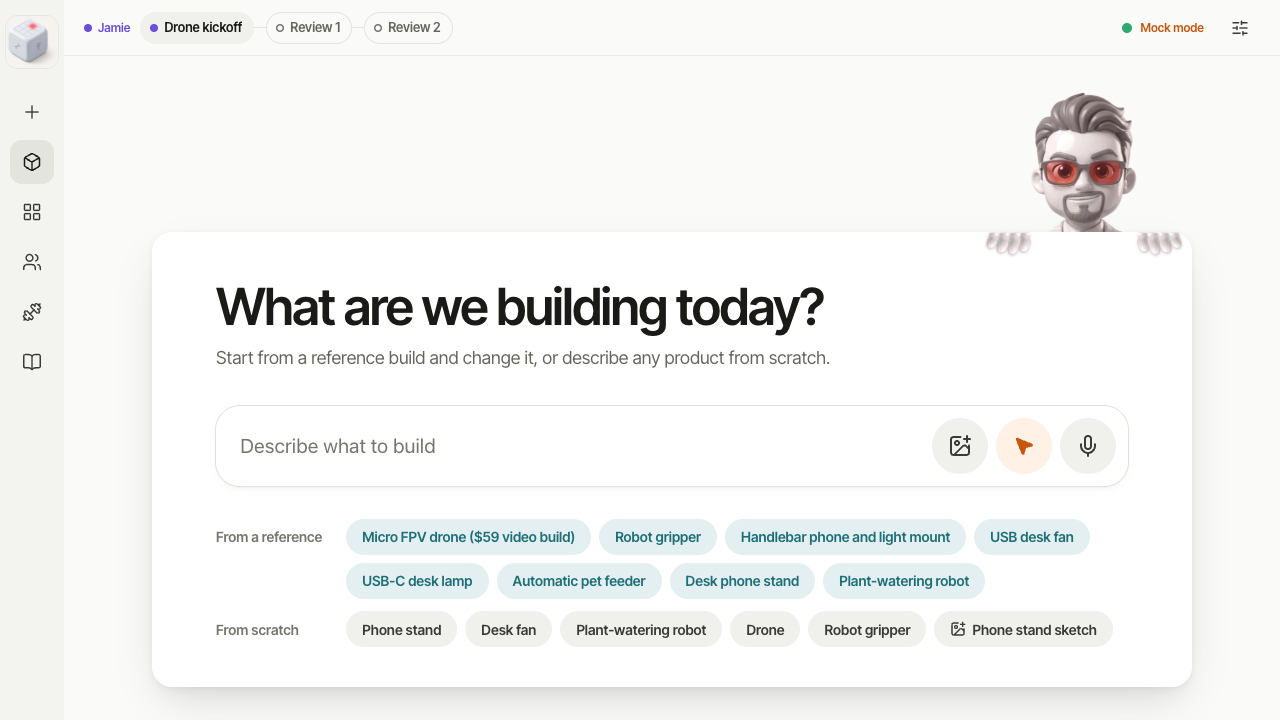
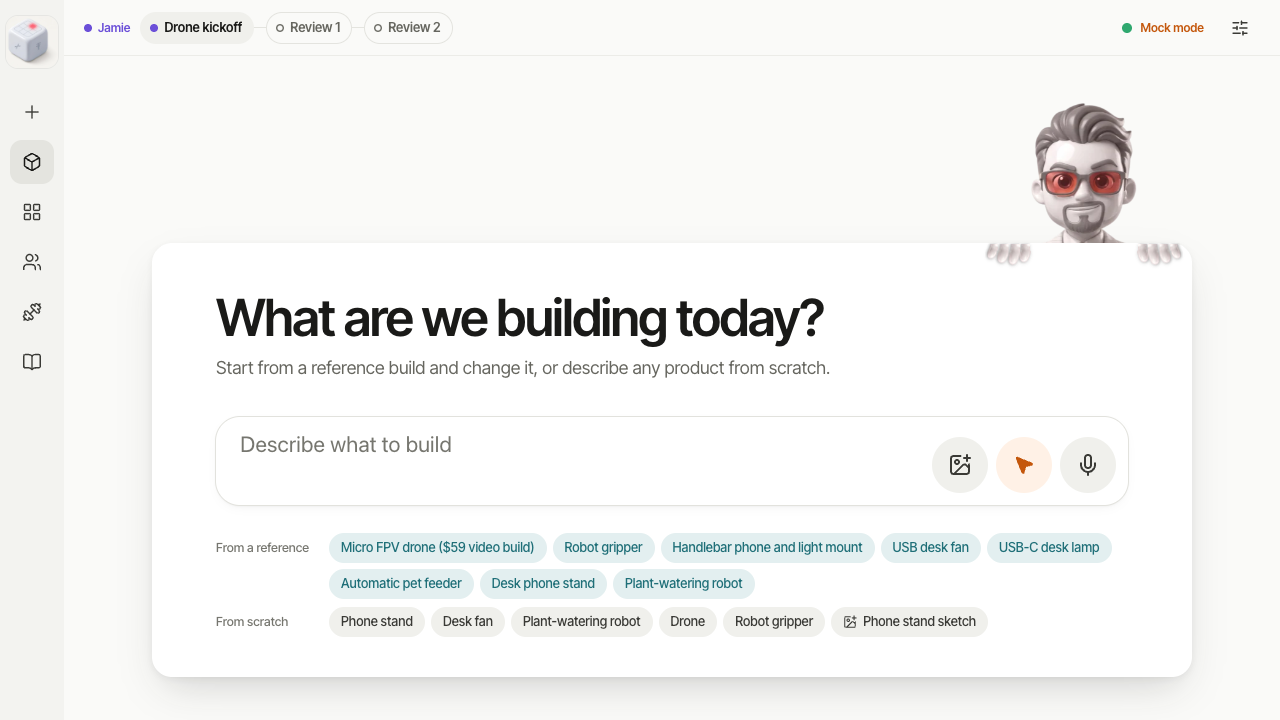
Start screen: a larger prompt field and quieter starting points

diff --git a/web/src/views/StartScreen.tsx b/web/src/views/StartScreen.tsx
@@ -11,7 +11,8 @@ import { useWindowWidth } from "../components/ui/ResizeHandle";
 import { EXAMPLES } from "../components/chat/examples";
 import { HEAD_ABOVE, MechanicPeek } from "../components/start/MechanicPeek";
 
-const chip = "h-9 rounded-full px-4 text-[14px] font-semibold transition";
+// Quiet starting points, so the prompt field stays the main thing.
+const chip = "h-7.5 rounded-full px-3 text-[13px] font-medium transition";
 
 export function StartScreen() {
   const sendPrompt = useSource((s) => s.sendPrompt);
@@ -57,7 +58,8 @@ export function StartScreen() {
               Start from a reference build and change it, or describe any product from scratch.
             </p>
           )}
-          <div className="mt-7 sm:mt-9">
+          {/* Room for about two lines, with larger text than the chat; the shared field itself stays as it is. */}
+          <div className="mt-7 sm:mt-9 [&_textarea]:min-h-[44px] sm:[&_textarea]:min-h-[64px] sm:[&_textarea]:text-[22px]">
             <SidebarChatInput
               size={narrow ? "md" : "lg"}
               value={input}
@@ -70,11 +72,11 @@ export function StartScreen() {
             />
           </div>
           {live && (
-            <div className="mt-7 grid gap-x-6 gap-y-3 sm:mt-8 sm:grid-cols-[max-content_minmax(0,1fr)] sm:items-baseline">
+            <div className="mt-6 grid gap-x-5 gap-y-2 sm:mt-7 sm:grid-cols-[max-content_minmax(0,1fr)] sm:items-baseline">
               {references.length > 0 && (
                 <>
-                  <p className="text-[14px] font-semibold text-faint sm:pt-2">From a reference</p>
-                  <div className="flex flex-wrap gap-2">
+                  <p className="text-[12.5px] font-medium text-faint sm:pt-1.5">From a reference</p>
+                  <div className="flex flex-wrap gap-1.5">
                     {references.map((ref) => (
                       <button
                         key={ref.id}
@@ -90,8 +92,8 @@ export function StartScreen() {
                   </div>
                 </>
               )}
-              <p className="text-[14px] font-semibold text-faint sm:pt-2">From scratch</p>
-              <div className="flex flex-wrap gap-2">
+              <p className="text-[12.5px] font-medium text-faint sm:pt-1.5">From scratch</p>
+              <div className="flex flex-wrap gap-1.5">
                 {EXAMPLES.map((example) => (
                   <button
                     key={example.label}
@@ -110,7 +112,7 @@ export function StartScreen() {
                   title="Build from a photo of a hand-drawn phone stand"
                   className={`${chip} flex items-center gap-1.5 bg-tile text-ink-2 hover:bg-track`}
                 >
-                  <ImagePlus className="h-4 w-4" />
+                  <ImagePlus className="h-3.5 w-3.5" />
                   Phone stand sketch
                 </button>
               </div>
